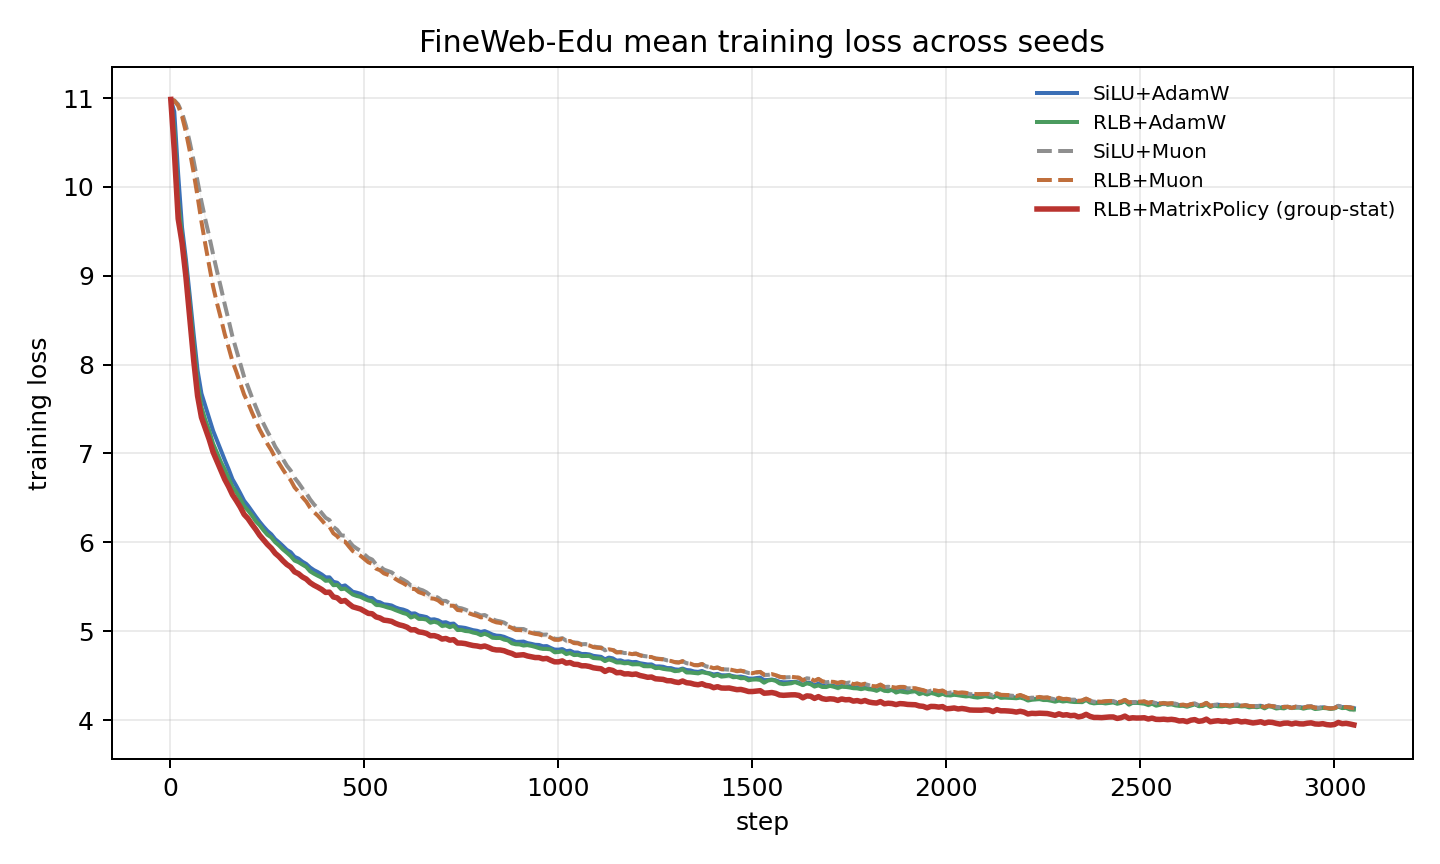
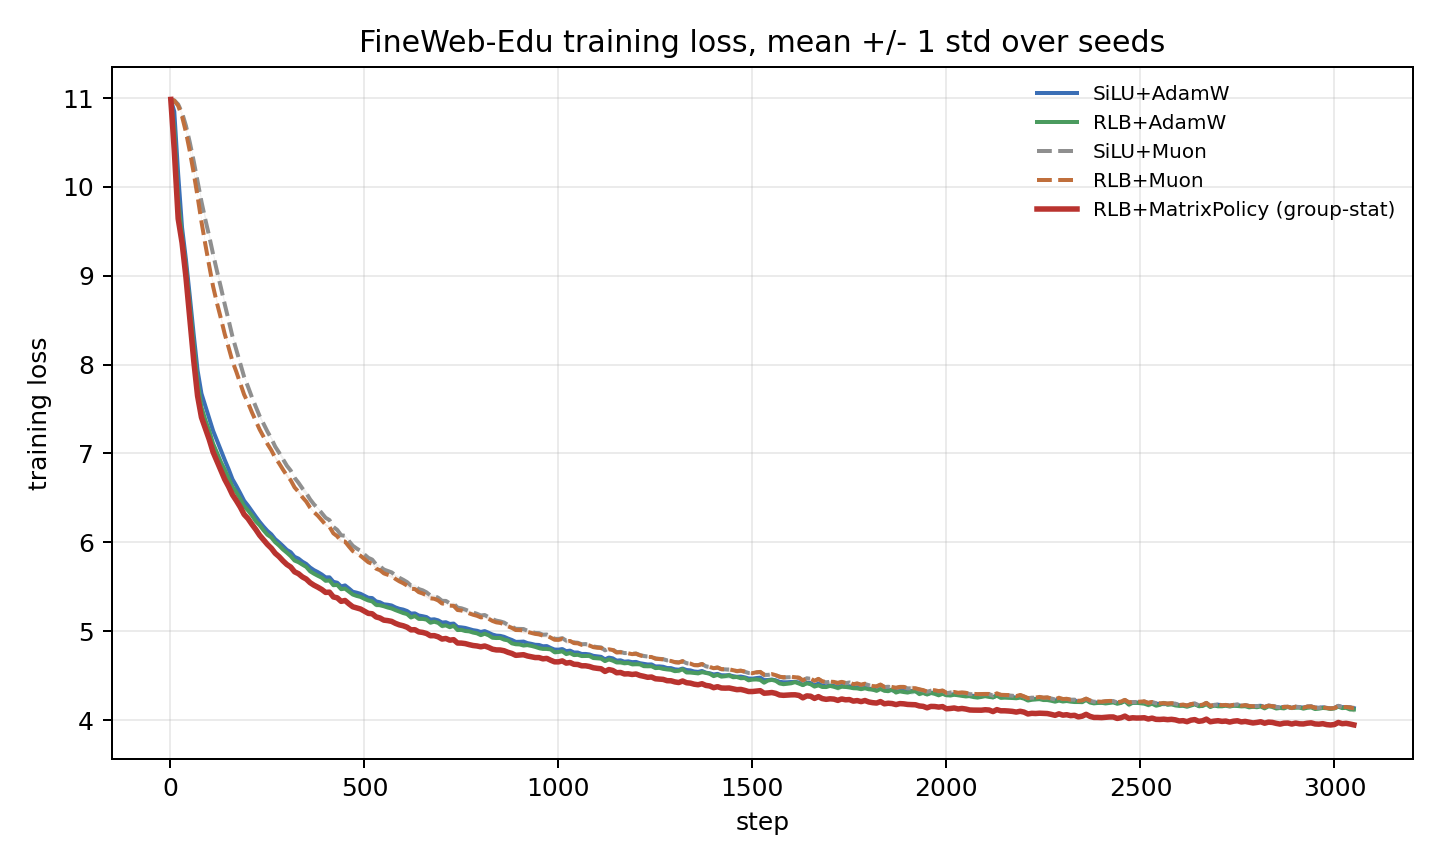
Replace README curves with multi-seed mean std plots

Changed region(s): [[0.25, 0.0312, 0.8125, 0.0625]]

diff --git a/experiments/scripts/summarize_real_lm_multiseed.py b/experiments/scripts/summarize_real_lm_multiseed.py
@@ -418,17 +418,19 @@ def matrix_policy_gap_cis(rows: list[dict[str, Any]]) -> list[dict[str, Any]]:
 
 
 def curve_mean_std(rows: list[dict[str, Any]], key: str) -> dict[tuple[str, str], list[tuple[int, float, float, int]]]:
-    grouped: dict[tuple[str, str, int], list[float]] = defaultdict(list)
+    grouped: dict[tuple[str, str, int], dict[int, float]] = defaultdict(dict)
     for row in rows:
         task = row.get("task")
         method = row.get("method")
+        seed = finite_int(row.get("seed"))
         step = finite_int(row.get("step"))
         value = finite_float(row.get(key))
-        if task is None or method is None or step is None or value is None:
+        if task is None or method is None or seed is None or step is None or value is None:
             continue
-        grouped[(str(task), str(method), step)].append(value)
+        grouped[(str(task), str(method), step)][seed] = value
     out: dict[tuple[str, str], list[tuple[int, float, float, int]]] = defaultdict(list)
-    for (task, method, step), values in grouped.items():
+    for (task, method, step), by_seed in grouped.items():
+        values = list(by_seed.values())
         mean, std = mean_std(values)
         if mean is None or std is None:
             continue
@@ -436,6 +438,22 @@ def curve_mean_std(rows: list[dict[str, Any]], key: str) -> dict[tuple[str, str]
     for key_pair in out:
         out[key_pair].sort(key=lambda item: item[0])
     return out
+
+
+def without_diverged_seed_rows(
+    rows: list[dict[str, Any]],
+    per_seed: list[dict[str, Any]],
+) -> list[dict[str, Any]]:
+    diverged = {
+        (str(row.get("task")), int(row.get("seed")), str(row.get("method")))
+        for row in per_seed
+        if row.get("seed") is not None and row.get("status") == "diverged"
+    }
+    return [
+        row
+        for row in rows
+        if (str(row.get("task")), int(row.get("seed") or -1), str(row.get("method"))) not in diverged
+    ]
 
 
 def plot_curve_means(
@@ -469,8 +487,8 @@ def plot_curve_means(
             linewidth=2.2 if method == "RLB+MatrixPolicy (group-stat)" else 1.6,
         )
         if max(stds or [0.0]) > 0:
-            plt.fill_between(xs, lo, hi, color=COLORS.get(method), alpha=0.12, linewidth=0)
-    title = f"{TASK_NAMES.get(task, task)} mean {ylabel} across seeds"
+            plt.fill_between(xs, lo, hi, color=COLORS.get(method), alpha=0.14, linewidth=0)
+    title = f"{TASK_NAMES.get(task, task)} {ylabel}, mean +/- 1 std over seeds"
     if min_step > 1:
         title += f" (step >= {min_step})"
     plt.title(title)
@@ -484,7 +502,12 @@ def plot_curve_means(
     plt.close()
 
 
-def write_curve_outputs(result_dir: Path, train_rows: list[dict[str, Any]], eval_rows: list[dict[str, Any]]) -> None:
+def write_curve_outputs(
+    result_dir: Path,
+    train_rows: list[dict[str, Any]],
+    eval_rows: list[dict[str, Any]],
+    per_seed: list[dict[str, Any]],
+) -> None:
     write_csv(
         result_dir / "train_curves.csv",
         sort_curve_rows(train_rows),
@@ -495,6 +518,7 @@ def write_curve_outputs(result_dir: Path, train_rows: list[dict[str, Any]], eval
         sort_curve_rows(eval_rows),
         ["task", "seed", "method", "step", "val_loss", "val_ppl"],
     )
+    eval_rows_without_diverged = without_diverged_seed_rows(eval_rows, per_seed)
     tasks = sorted({str(row.get("task")) for row in eval_rows if row.get("task")})
     for task in tasks:
         plot_curve_means(eval_rows, task, "val_loss", "validation loss", result_dir / f"{task}_validation_loss_mean.png")
@@ -504,6 +528,21 @@ def write_curve_outputs(result_dir: Path, train_rows: list[dict[str, Any]], eval
             "val_loss",
             "validation loss",
             result_dir / f"{task}_validation_loss_mean_zoom_step1000.png",
+            min_step=1000,
+        )
+        plot_curve_means(
+            eval_rows_without_diverged,
+            task,
+            "val_ppl",
+            "validation PPL",
+            result_dir / f"{task}_validation_ppl_mean.png",
+        )
+        plot_curve_means(
+            eval_rows_without_diverged,
+            task,
+            "val_ppl",
+            "validation PPL",
+            result_dir / f"{task}_validation_ppl_mean_zoom_step1000.png",
             min_step=1000,
         )
         plot_curve_means(train_rows, task, "loss", "training loss", result_dir / f"{task}_training_loss_mean.png")
@@ -767,7 +806,7 @@ def main() -> None:
     write_csv(args.result_dir / "per_seed_summary.csv", per_seed, per_seed_fields)
     write_csv(args.result_dir / "aggregate_summary.csv", aggregate_rows, aggregate_fields)
     write_csv(args.result_dir / "matrix_policy_gap_bootstrap_ci.csv", gap_ci_rows, gap_ci_fields)
-    write_curve_outputs(args.result_dir, train_curve_rows, eval_curve_rows)
+    write_curve_outputs(args.result_dir, train_curve_rows, eval_curve_rows, per_seed)
     write_markdown(args.result_dir / "summary.md", per_seed, aggregate_rows)
 
 

diff --git a/experiments/README.md b/experiments/README.md
@@ -67,11 +67,72 @@ Generated multi-seed mean plots:
 ```text
 fineweb_validation_loss_mean.png
 fineweb_validation_loss_mean_zoom_step1000.png
+fineweb_validation_ppl_mean.png
+fineweb_validation_ppl_mean_zoom_step1000.png
 fineweb_training_loss_mean.png
 fineweb_edu_validation_loss_mean.png
 fineweb_edu_validation_loss_mean_zoom_step1000.png
+fineweb_edu_validation_ppl_mean.png
+fineweb_edu_validation_ppl_mean_zoom_step1000.png
 fineweb_edu_training_loss_mean.png
 ```
+
+
+## Figures
+
+The 3-seed tables are the primary result. These plots are kept in the README because curve shape matters for optimizer claims, especially early training and divergent controls.
+
+### Multi-Seed Mean +/- Std Curves
+
+Each line is the seed mean; shaded bands are +/- 1 std. PPL plots omit divergent/nonfinite seed-method rows.
+
+![FineWeb mean validation loss](results/real_lm_multiseed_2026_05_31/fineweb_validation_loss_mean.png)
+
+![FineWeb mean validation loss zoom](results/real_lm_multiseed_2026_05_31/fineweb_validation_loss_mean_zoom_step1000.png)
+
+![FineWeb mean validation PPL](results/real_lm_multiseed_2026_05_31/fineweb_validation_ppl_mean.png)
+
+![FineWeb mean validation PPL zoom](results/real_lm_multiseed_2026_05_31/fineweb_validation_ppl_mean_zoom_step1000.png)
+
+![FineWeb mean training loss](results/real_lm_multiseed_2026_05_31/fineweb_training_loss_mean.png)
+
+![FineWeb-Edu mean validation loss](results/real_lm_multiseed_2026_05_31/fineweb_edu_validation_loss_mean.png)
+
+![FineWeb-Edu mean validation loss zoom](results/real_lm_multiseed_2026_05_31/fineweb_edu_validation_loss_mean_zoom_step1000.png)
+
+![FineWeb-Edu mean validation PPL](results/real_lm_multiseed_2026_05_31/fineweb_edu_validation_ppl_mean.png)
+
+![FineWeb-Edu mean validation PPL zoom](results/real_lm_multiseed_2026_05_31/fineweb_edu_validation_ppl_mean_zoom_step1000.png)
+
+![FineWeb-Edu mean training loss](results/real_lm_multiseed_2026_05_31/fineweb_edu_training_loss_mean.png)
+
+### Seed-1337 Detailed Curves
+
+![FineWeb validation loss](results/real_lm_screen_2026_05_30/fineweb_validation_loss.png)
+
+![FineWeb validation loss zoom](results/real_lm_screen_2026_05_30/fineweb_validation_loss_zoom_step1000.png)
+
+![FineWeb validation PPL](results/real_lm_screen_2026_05_30/fineweb_validation_ppl.png)
+
+![FineWeb validation PPL zoom](results/real_lm_screen_2026_05_30/fineweb_validation_ppl_zoom_step1000.png)
+
+![FineWeb training loss](results/real_lm_screen_2026_05_30/fineweb_training_loss.png)
+
+![FineWeb-Edu validation loss](results/real_lm_screen_2026_05_30/fineweb_edu_validation_loss.png)
+
+![FineWeb-Edu validation loss zoom](results/real_lm_screen_2026_05_30/fineweb_edu_validation_loss_zoom_step1000.png)
+
+![FineWeb-Edu validation PPL](results/real_lm_screen_2026_05_30/fineweb_edu_validation_ppl.png)
+
+![FineWeb-Edu validation PPL zoom](results/real_lm_screen_2026_05_30/fineweb_edu_validation_ppl_zoom_step1000.png)
+
+![FineWeb-Edu training loss](results/real_lm_screen_2026_05_30/fineweb_edu_training_loss.png)
+
+![WikiText validation loss](results/rlb_matrix_policy_muon_switch_2026_05_28/same_lr_validation_loss.png)
+
+![WikiText validation PPL](results/rlb_matrix_policy_muon_switch_2026_05_28/same_lr_validation_ppl.png)
+
+![WikiText training loss from step 1](results/rlb_matrix_policy_muon_switch_2026_05_28/same_lr_training_loss_from_step1.png)
 
 ## One-Seed Curve Package
 

diff --git a/README.md b/README.md
@@ -124,6 +124,55 @@ The older one-seed result package still contains plot images and curve CSVs:
 experiments/results/real_lm_screen_2026_05_30/
 ```
 
+
+## Curves
+
+These are the primary visual diagnostics. Each line is the mean across seeds `1337`, `2027`, and `3407`; the shaded band is +/- 1 standard deviation. PPL plots follow the earlier plotting rule and omit divergent/nonfinite seed-method rows so one failed `RLB+AdamW` run does not destroy the axis.
+
+### FineWeb
+
+Mean validation loss:
+
+![FineWeb mean validation loss](experiments/results/real_lm_multiseed_2026_05_31/fineweb_validation_loss_mean.png)
+
+Mean validation loss, zoomed from step 1000:
+
+![FineWeb mean validation loss zoom](experiments/results/real_lm_multiseed_2026_05_31/fineweb_validation_loss_mean_zoom_step1000.png)
+
+Mean validation PPL:
+
+![FineWeb mean validation PPL](experiments/results/real_lm_multiseed_2026_05_31/fineweb_validation_ppl_mean.png)
+
+Mean validation PPL, zoomed from step 1000:
+
+![FineWeb mean validation PPL zoom](experiments/results/real_lm_multiseed_2026_05_31/fineweb_validation_ppl_mean_zoom_step1000.png)
+
+Mean training loss:
+
+![FineWeb mean training loss](experiments/results/real_lm_multiseed_2026_05_31/fineweb_training_loss_mean.png)
+
+### FineWeb-Edu
+
+Mean validation loss:
+
+![FineWeb-Edu mean validation loss](experiments/results/real_lm_multiseed_2026_05_31/fineweb_edu_validation_loss_mean.png)
+
+Mean validation loss, zoomed from step 1000:
+
+![FineWeb-Edu mean validation loss zoom](experiments/results/real_lm_multiseed_2026_05_31/fineweb_edu_validation_loss_mean_zoom_step1000.png)
+
+Mean validation PPL:
+
+![FineWeb-Edu mean validation PPL](experiments/results/real_lm_multiseed_2026_05_31/fineweb_edu_validation_ppl_mean.png)
+
+Mean validation PPL, zoomed from step 1000:
+
+![FineWeb-Edu mean validation PPL zoom](experiments/results/real_lm_multiseed_2026_05_31/fineweb_edu_validation_ppl_mean_zoom_step1000.png)
+
+Mean training loss:
+
+![FineWeb-Edu mean training loss](experiments/results/real_lm_multiseed_2026_05_31/fineweb_edu_training_loss_mean.png)
+
 ## Resource Rules
 
 These are hard operational constraints for this repo:
